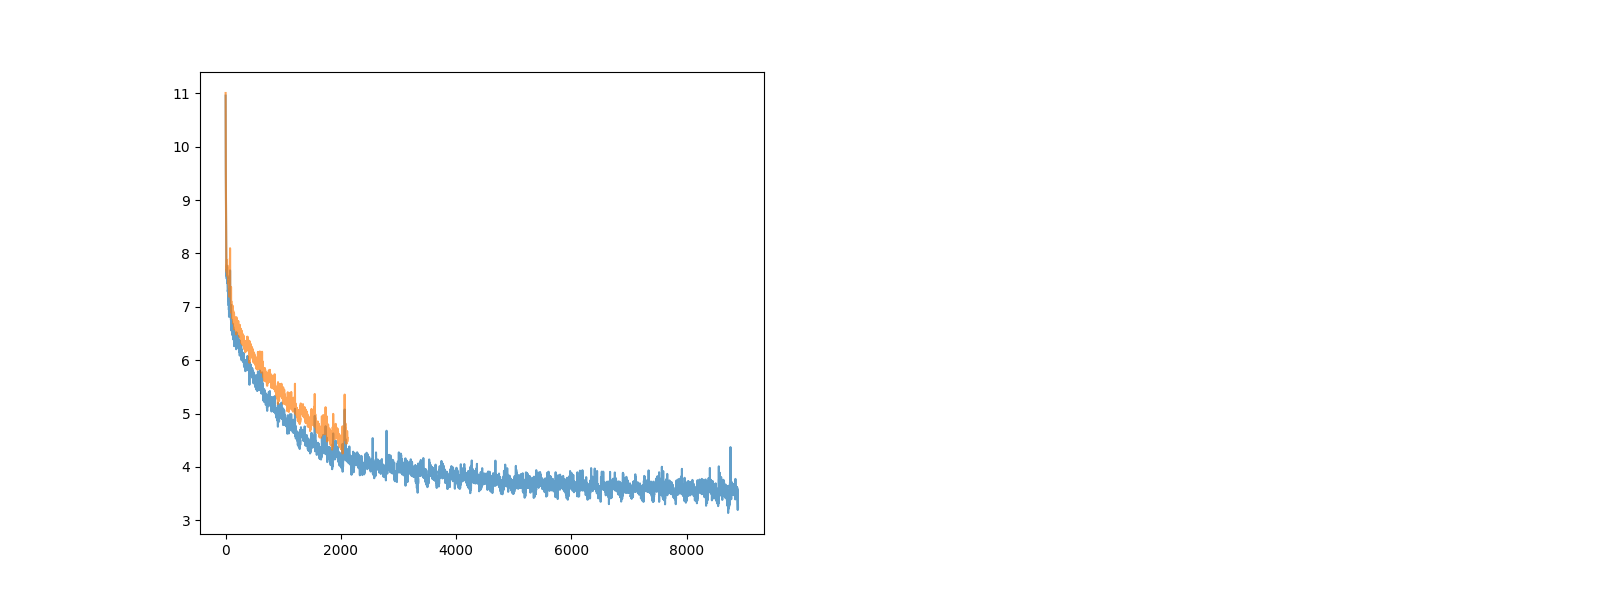
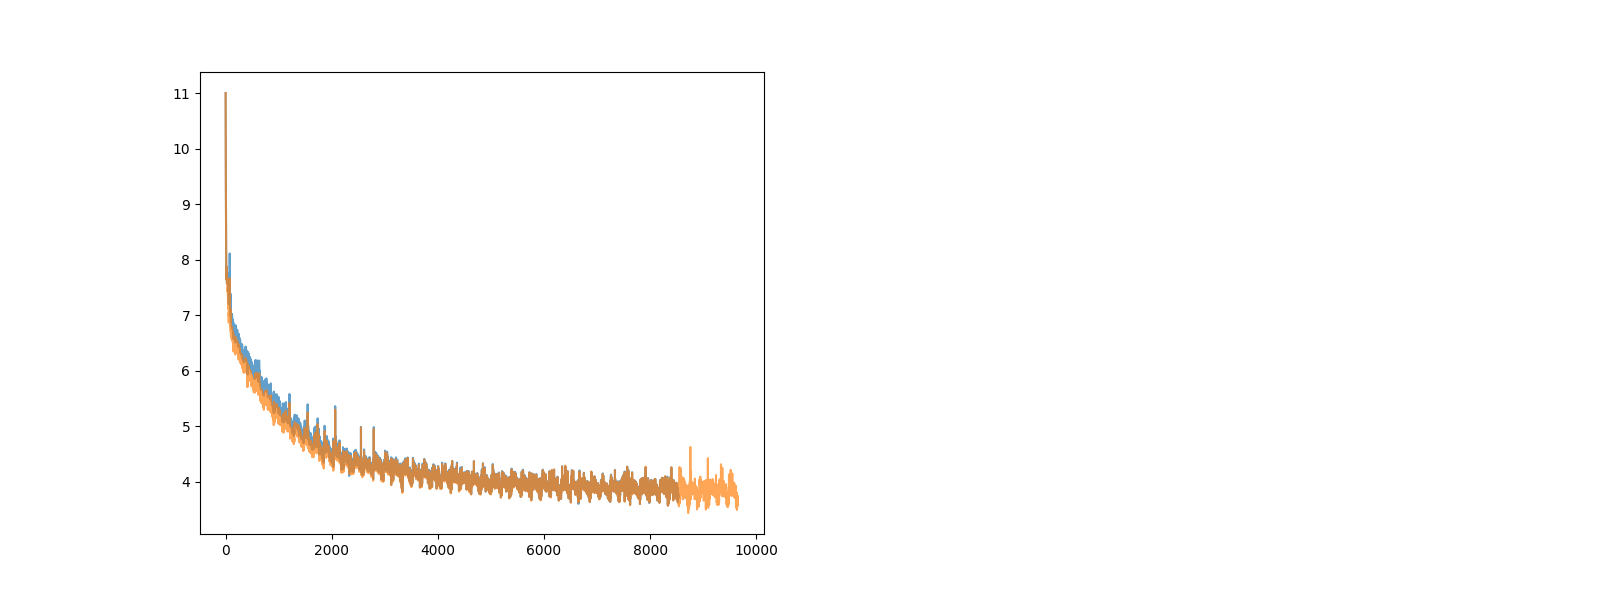
up

Changed region(s): [[0.0938, 0.51, 0.4688, 0.87], [0.25, 0.9, 0.5, 0.93], [0.1875, 0.9, 0.2188, 0.93]]

diff --git a/train_gpt2_ben.py b/train_gpt2_ben.py
@@ -125,8 +125,10 @@ class Block(DualModule):
         super().__init__()
         self.ln_1 = nn.LayerNorm(config.n_embd)
         self.attn = CausalSelfAttention(config)
+        self.attn2 = CausalSelfAttention(config)
         self.ln_2 = nn.LayerNorm(config.n_embd)
         self.mlp = MLP(config)
+        self.mlp2 = MLP(config)
     
     def forward(self, x, res):
         # note residual connection res
@@ -134,12 +136,26 @@ class Block(DualModule):
         # NOTE, for some reason LN(x) + self.attn(LN(x)) doesn't work as well. 
         # ^ it is incredibly important that the residual is not passed through the layer norm... (TODO why??? Layers can no-op?)
         # x = x + self.attn(self.ln_1(x))  # reduce operation (all to all)
-        x = res + self.attn(x) # res + self.attn(x) # NOTE that the residual connection x is already layer normed, unlike usual transformer implementation # TODO add back residual res + 
+        # NOTE: res will generally be very large...
+        x = res * self.attn2(x) + self.attn(x) # res + self.attn(x) # NOTE that the residual connection x is already layer normed, unlike usual transformer implementation # TODO add back residual res + . NOTE x + self.attn(x) is simply horrible (why?)... we cannot layer norm it (prev too big or too small?)
         # Maybe the layernorm just destroys relative magnitude of things...
         # NOTE, likewise LN(x) + mlp(LN(x)) doesn't work as well? The residual literally has to be untouched. 
-        x = x + self.mlp(self.ln_2(x))  # map operation (one to one)
+        x = x * self.mlp2(self.ln_2(x)) + self.mlp(self.ln_2(x))  # map operation (one to one) # TODO ADD OR MULTIPLY? x + self.mlp #TODO additive attn, multiplicative mlp
         newres = x
         x = self.ln_1(x) # TODO UNCOMMENT, and then try removing res (applying attn to res)
+        # NOTE: NEXT is usually ~1.0, prev is usually < 1.0 early on.
+        # NOTE: By step 116, prev is much larger, ~2.0
+        # also seems to get bigger as layer number grows...
+        # so the layer norm really makes things bigger.
+        # NOTE: if x + self.mlp, prev grows much much quicker, ~30 by step 48
+        # ^ but it seems to get a bit smaller over time
+        # Large (and increasing over layer num) prev remains true even if we don't 
+        # compute loss for every layer. (This is probably due to reuse...)
+        # NOTE: growth continues even if transformer block is not reused
+        # ^ again, in vanilla GPT, it gets smaller over time.
+        # NOTE: for some reason, for res*attn(x) with x*mlp(LN(x)), std is always 0 even for alllayer
+        # NOTE: doing res * attn(x) and x + mlp(LN(x)) explodes the prev when training last layer only, but when doing all layer loss, it is reasonable... (why?)
+
         # NOTE seems quite good res + attn(x), comment out ln_1
         return x, newres
 
@@ -231,21 +247,7 @@ class GPT(DualModule):
         for i in range(self.config.n_layer):
             prev_x = x # (B, T, n_embd)
 
-            with torch.no_grad():
-                if all_logits or print_weights:
-                    _logits = self.lm_head(x)
-                if all_logits:
-                    allLogits.append(_logits)
-                if print_weights:
-                    if (i == 0 or i == self.config.n_layer - 2 or i == self.config.n_layer - 1 or i == self.config.n_layer) and master_process:
-                        # print(self.transformer.sharedblock.attn.c_attn.weight.view(-1)[-6:].data)
-                        probs = F.softmax(_logits, dim=-1) # (B, T, vocab_size?)
-                        # print top k of the last T
-                        # do top-k sampling of 50 (huggingface pipeline default)
-                        # topk_probs here becomes (5, 50), topk_indices is (5, 50)
-                        topk_probs, topk_indices = torch.topk(probs[0,-1,:], 5, dim=-1)
-                        fstring = ["{:.5f}".format(value) for value in topk_probs.tolist()]
-                        bprint(f"Layer {i}\n\t\t\t {fstring, enc.decode(topk_indices.tolist())}")
+            
 
             
             # block = self.transformer.h[i]
@@ -254,13 +256,52 @@ class GPT(DualModule):
 
             # # For now, try computing dot products in embedding space
             # target_embedding = torch.roll(prev_x, shifts=-1, dims=1) # shift in T dimension
+
             # # NOTE: ignore the far right-most one
             # dp = -1* (target_embedding[:,:-1,:] * x[:,:-1,:]).sum(dim=-1) / self.config.n_embd # dot product
             # dp = dp.mean()
             # losses += dp
             # confLoss += dp
 
-            if targets is not None: # and i == self.config.n_layer - 1:
+
+            with torch.no_grad():
+                if all_logits or print_weights:
+                    _logits = self.lm_head(x)
+                    # _logits_target_ = self.lm_head(x[:,:-1,:])
+                    # _target_embd = self.lm_head(target_embedding[:,:-1,:])
+                if all_logits:
+                    allLogits.append(_logits)
+                if print_weights:
+                    prevsize = res.std(dim=-1).mean()
+                    nextsize = x.std(dim=-1).mean()
+                    bprint(f"SIZE COMPARISON prev {prevsize} next {nextsize}")
+                # if print_weights:
+                #     _batch_0_target = _target_embd[:,-7:,:] #(B, 7, vocab_size?)
+                #     _probs = F.softmax(_batch_0_target, dim=-1) #(B, 7, vocab_size?)
+                #     vals, idxs = _probs.max(dim=-1, keepdim=True) #(B, 7, 1)
+                #     v = idxs[0,:,0].tolist()
+
+                #     _logits_target_ = _logits_target_[:,-7:,:] #(B, 7, vocab_size?)
+                #     _probs = F.softmax(_logits_target_, dim=-1) #(B, 7, vocab_size?)
+                #     vals, idxs = _probs.max(dim=-1, keepdim=True) #(B, 7, 1)
+                #     cur = idxs[0,:,0].tolist()
+
+                #     a = "\t".join(enc.decode(v))
+                #     b = "\t".join(enc.decode(cur))
+
+                #     bprint(f"Layer {i} prev-targets\npre\t\t{a}\ncur\t\t{b}")
+
+                    # if (i == 0 or i == self.config.n_layer - 2 or i == self.config.n_layer - 1 or i == self.config.n_layer) and master_process:
+                    #     # print(self.transformer.sharedblock.attn.c_attn.weight.view(-1)[-6:].data)
+                    #     probs = F.softmax(_logits, dim=-1) # (B, T, vocab_size?)
+                    #     # print top k of the last T
+                    #     # do top-k sampling of 50 (huggingface pipeline default)
+                    #     # topk_probs here becomes (5, 50), topk_indices is (5, 50)
+                    #     topk_probs, topk_indices = torch.topk(probs[0,-1,:], 5, dim=-1)
+                    #     fstring = ["{:.5f}".format(value) for value in topk_probs.tolist()]
+                    #     bprint(f"Layer {i}\n\t\t\t {fstring, enc.decode(topk_indices.tolist())}")
+
+            if targets is not None: #and i == self.config.n_layer - 1:
 
                 # NOTE: keep this because... can't return some dummy thing instead
                 _logits = self.lm_head.requires_grad_(True)(x) # (B,T,Vocab_size)
@@ -269,7 +310,7 @@ class GPT(DualModule):
                 trueLoss = tl
                 losses = losses + tl
                 allLogits.append(_logits)
-                   
+                
 
             if ENABLE_LAYER_LOSS:
 
@@ -733,16 +774,16 @@ else:
     print(f"using device: {device}")
 
 
-torch.manual_seed(1234)
-if torch.cuda.is_available():
-    torch.cuda.manual_seed(1234)
+# torch.manual_seed(1234)
+# if torch.cuda.is_available():
+#     torch.cuda.manual_seed(1234)
 
 # ===================
 # HYPERPARAMETERS
 # ===================
 
-test_name="7-test-2"
-test_description="Vanilla GPT (reusing blocks), with dot product conf loss with previous layer"
+test_name="8-doubleattndoublemlp-alllayer"
+test_description=" Reusing blocks, max LR 6e-4, computing loss every layer, res*attn2(x) + attn(x), x * mlp2(LN(x)) + mlp(LN(x))"
 
 
 # Create log and persistence directory
@@ -794,6 +835,7 @@ if master_process:
     print(f"Num GPUs: {ddp_world_size}")
     bprint(f"Threshold: {THRESHOLD}")
     bprint(f"Enable layer loss: {ENABLE_LAYER_LOSS}")
+    bprint(f"MAX LEARNING RATE: {max_lr}")
     bprint(f"Experiment name: {test_name}")
     bprint(f"Experiment description: {test_description}")
 
@@ -990,7 +1032,7 @@ for step in range(max_steps):
         for i in range(num_return_sequences):
             tokens = printgen
             decoded = enc.decode(tokens)
-            print(f"rank {ddp_rank} sample {i}: {decoded}")
+            bprint(f"rank {ddp_rank} sample {i}: {decoded}")
             with open(sample_file, "a") as f:
                 f.write(f"{step}: sample {i}: {decoded}\n")
         
